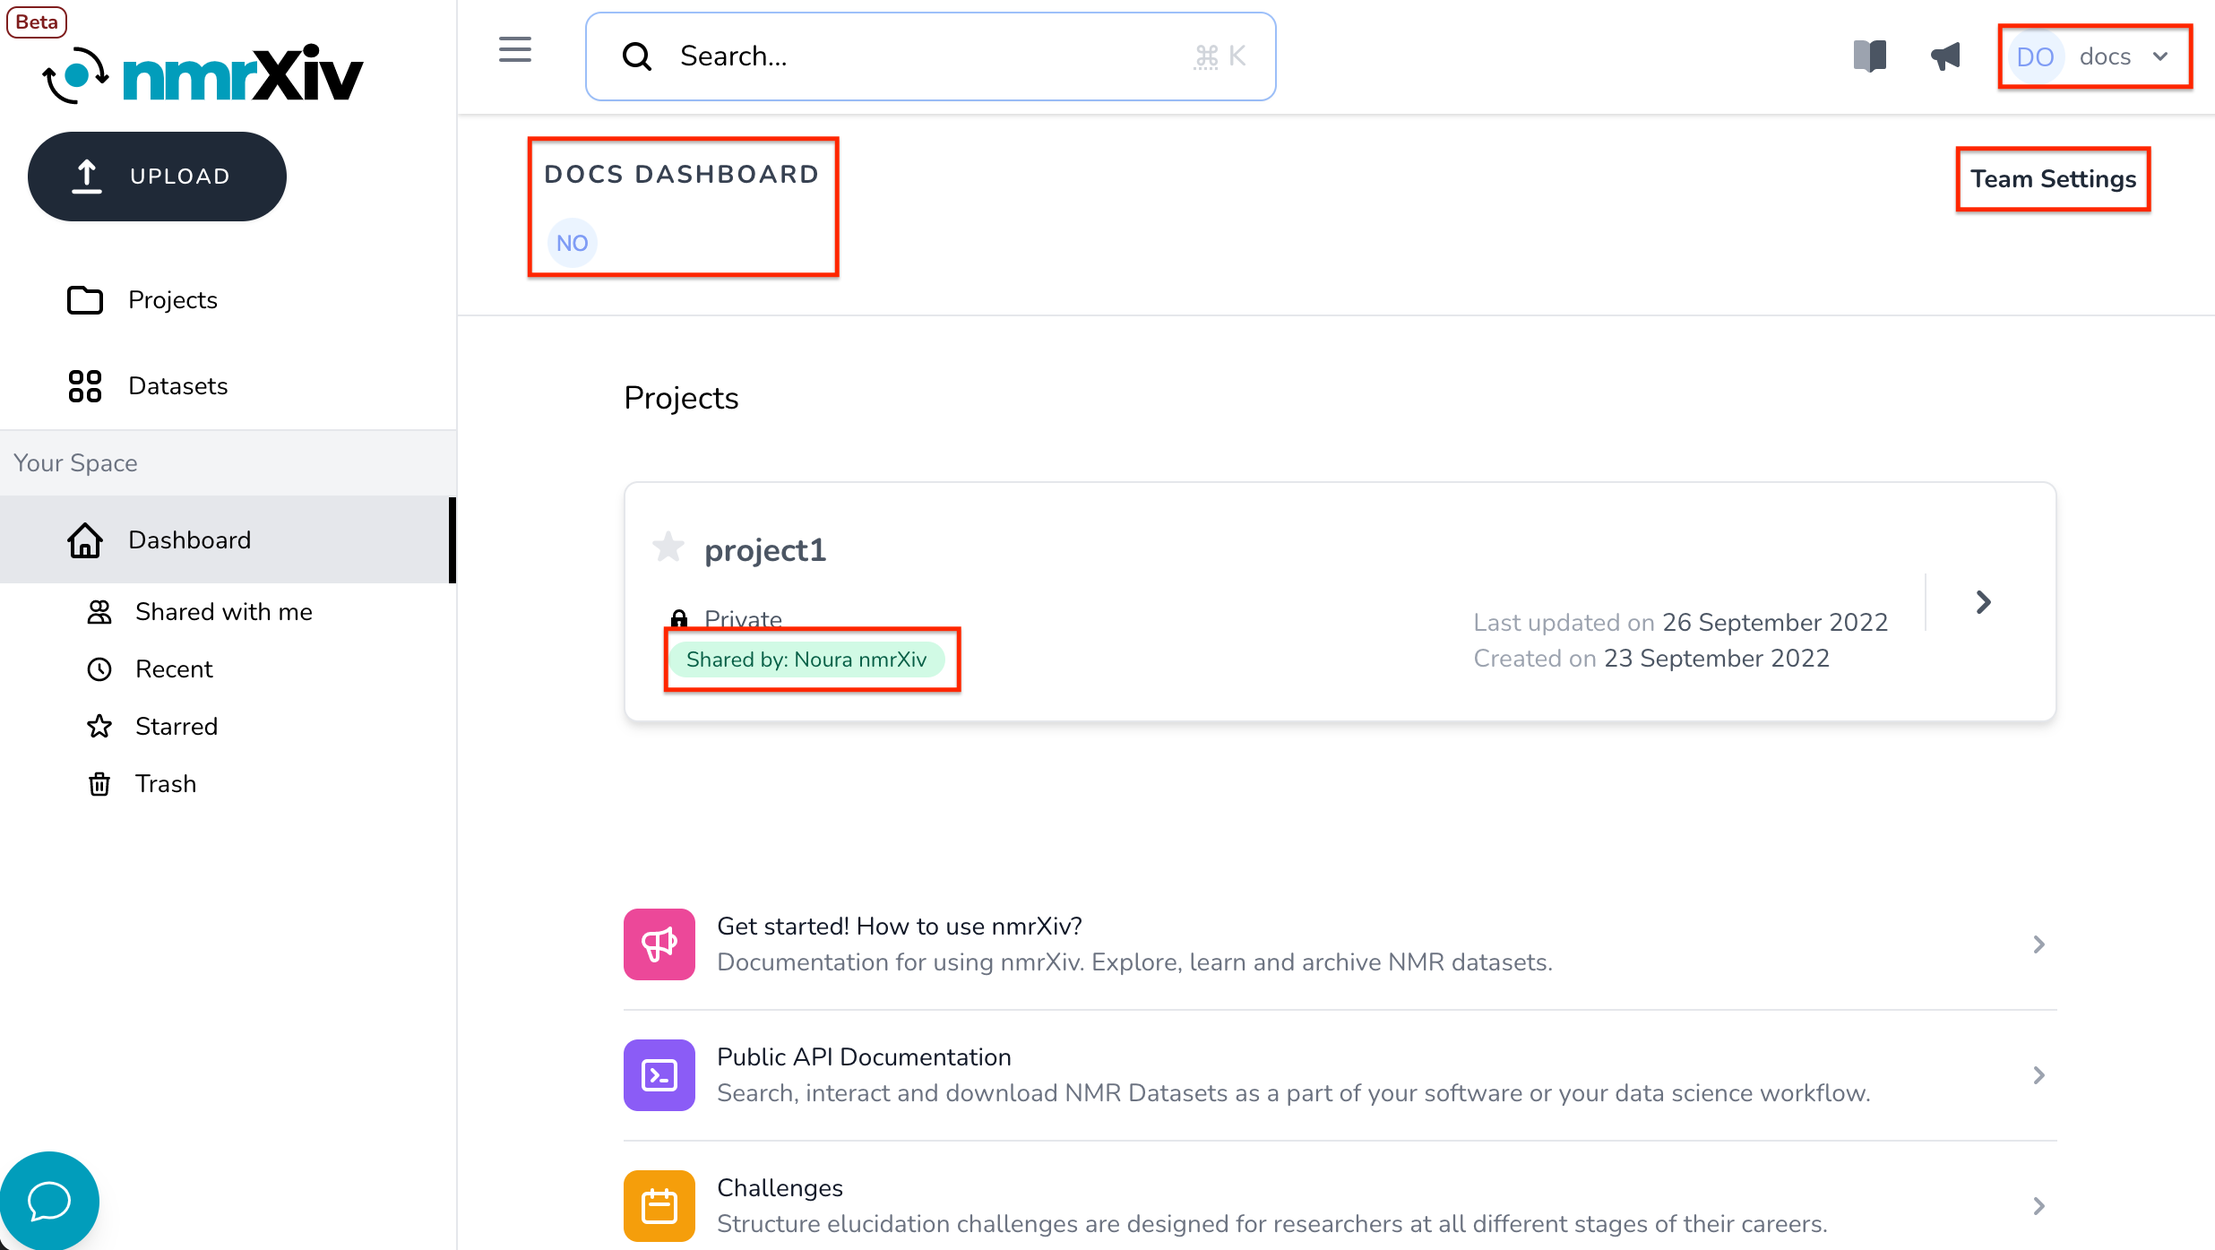
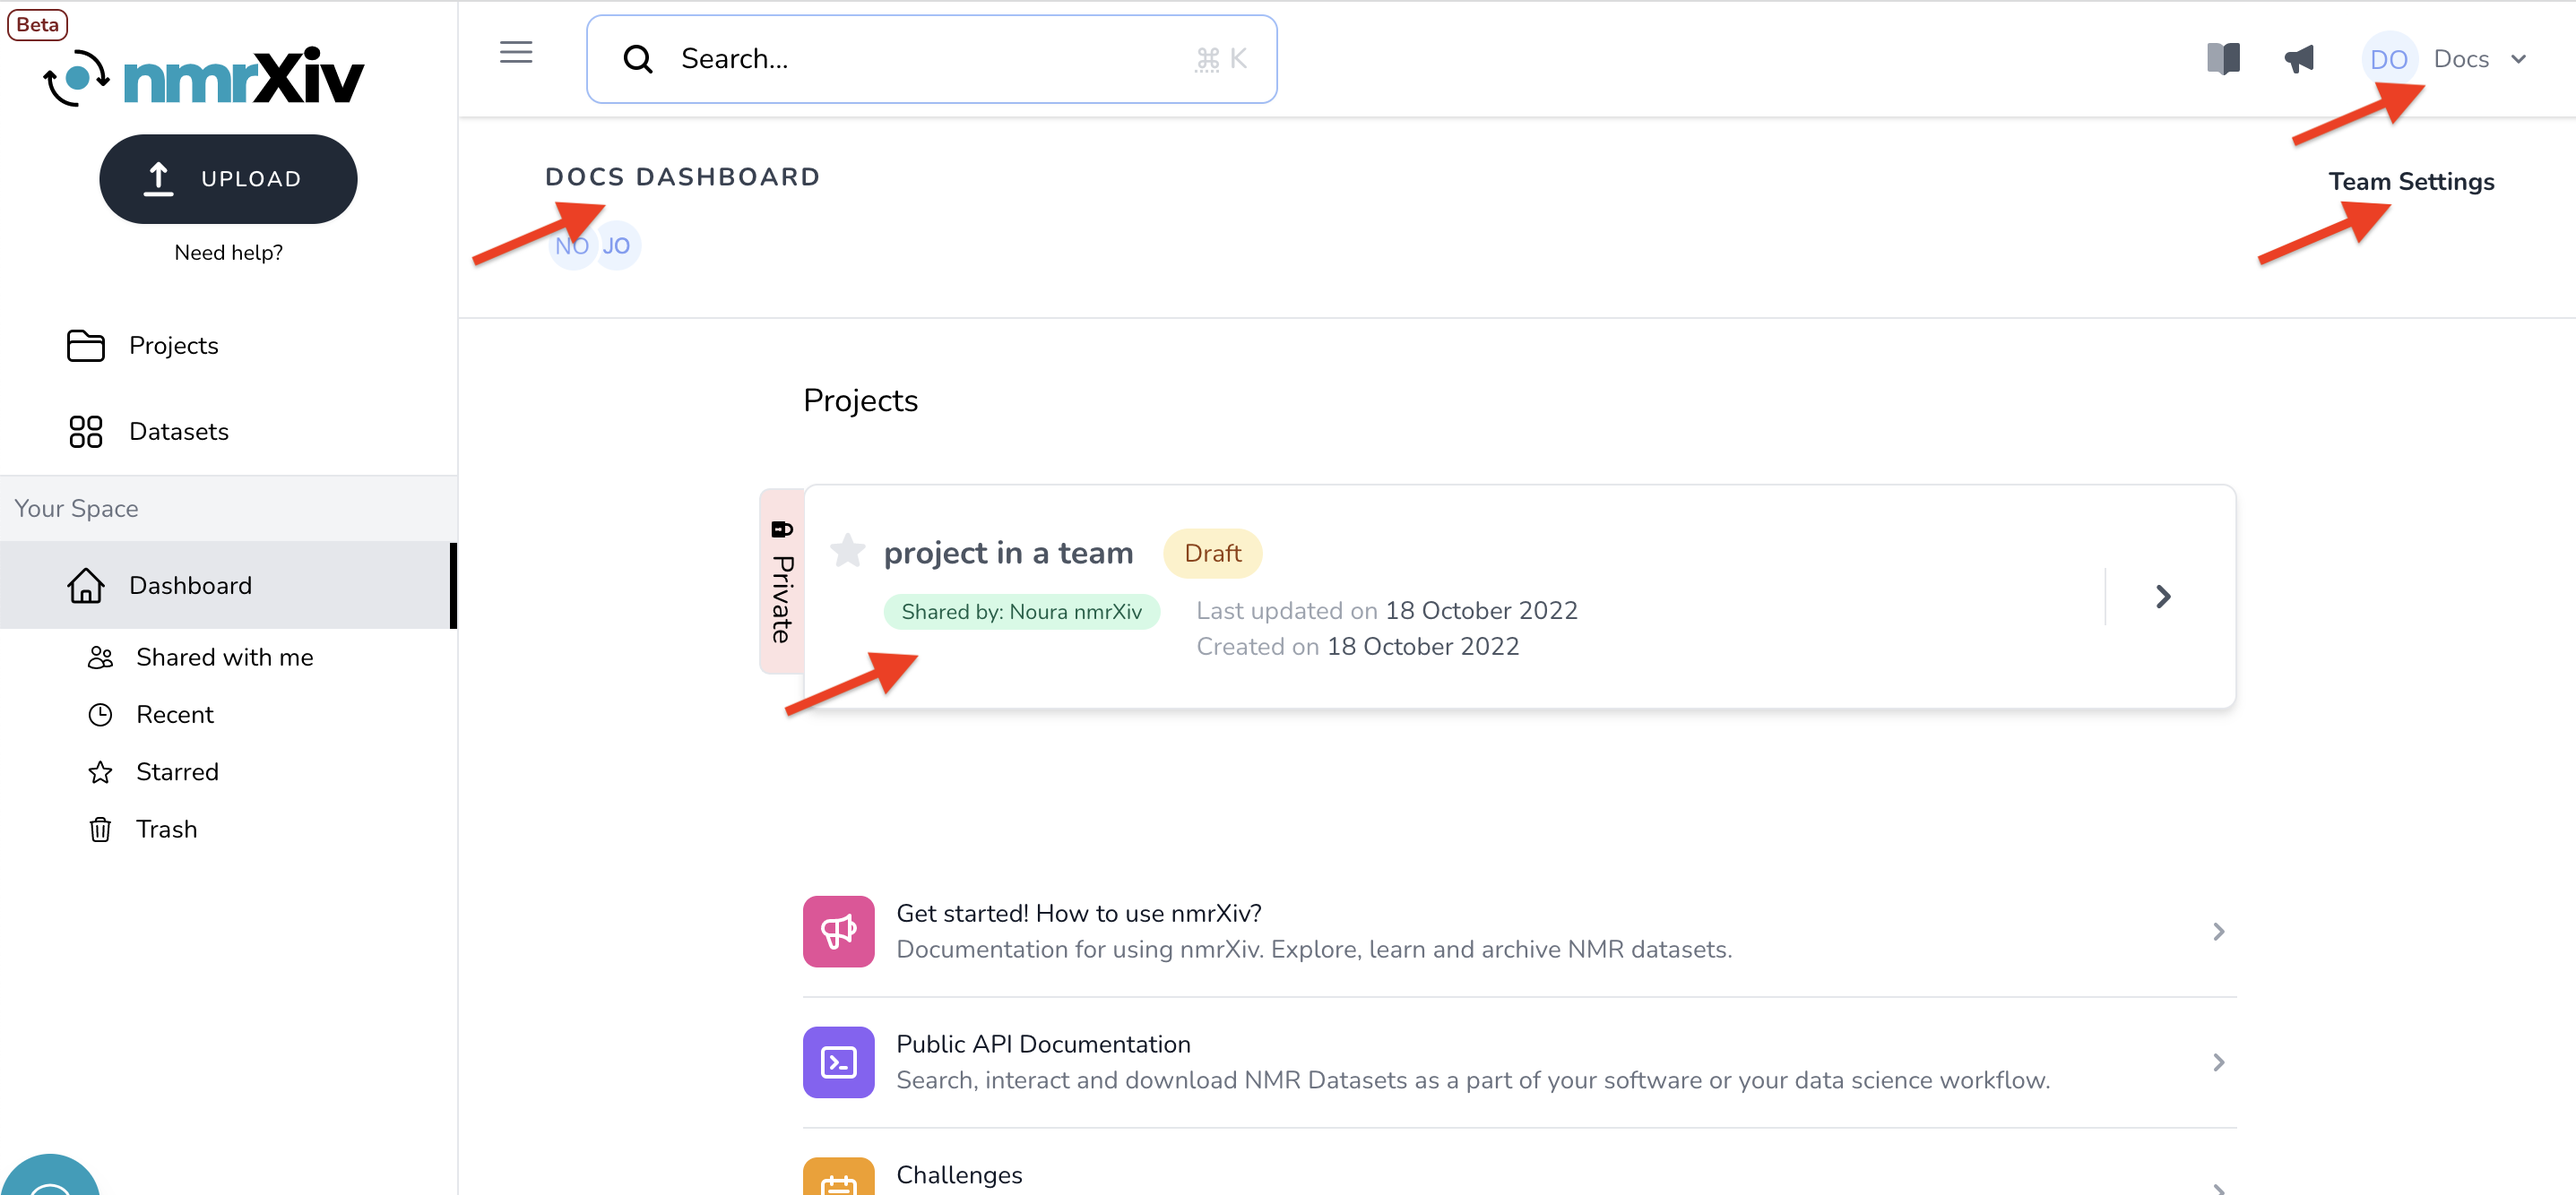
fix: update teams Fixes  #264

diff --git a/docs/submission-guides/data-model/team.md b/docs/submission-guides/data-model/team.md
@@ -2,10 +2,10 @@
 sidebar_position: 4
 title: Team
 ---
-**Teams** facilitate collaboration with others on projects by simplifying sharing options. Any user in nmrXiv can create teams or join them.
+**Teams** facilitate collaboration with others on projects by simplifying sharing options. Any user in **[nmrXiv](https://nmrxiv.org/)** can create or join teams.
 
 ## Team View
-Teams have their own **Dashboards** that look like the main user **Dashboard**, but still, there are few differences. 
+Teams have their own **Dashboards** that look like the main user **Dashboard**, but still, there are a few differences. 
 
 <div style={{textAlign: 'center'}}>
 <img src="/img/team/view.png" width="1000"/>
@@ -13,7 +13,11 @@ Teams have their own **Dashboards** that look like the main user **Dashboard**, 
 </div>
 <br></br>
 
-Starting from the top left, one can see the team **name** (DOCS DASHBOARD), which appears instead of (YOUR DASHBOARD) that is shown in the main user's dashboard, along with circles showing the first letters of the users' names who are part of the team. Going to the left, there are the `TEAM SETTINGS`, which will be explored more in [Edit section](#edit). Moving down, you can see a list of all the teams' projects with a quick view of the project's **name**, **privacy**, and dates of **creating and updating**. You can also see if the project is **starred**. At this point, there is a difference between the team-creator's view and the members' ones, as members will have a greenly-highlighted text mentioning by whom the project was shared. This person is always the team creator regardless of who created the project.
+Starting from the top left, one can see the team **name** (DOCS), which appears instead of (YOUR DASHBOARD) that is shown in the main user's dashboard, along with avatars of the users who are members of the team as circles with either their images or names' first letters. Going to the left, there are the `TEAM SETTINGS`, which will be explored more in [Edit section](#edit). Moving down, you can see a list of all the teams' projects with a quick view of the project's **name**, **privacy**, and dates of **creating and updating**. You can also see if the project is **starred**. 
+
+:::info
+There is a difference between the team creator's dashboard view and the members',  as members will have a greenly-highlighted text mentioning by whom the projects were shared, which is always the team creator, **regardless of who created the project**.
+:::
 
 ## Create
 You can create as many teams as you need by clicking on the user's name at the top right corner to open a menu and click `Create New Team`. 
@@ -24,7 +28,7 @@ You can create as many teams as you need by clicking on the user's name at the t
 </div>
 <br></br>
 
-It will lead to a new page that confirms your ownership of the team and requests a name for it. Then you click `CREATE`, and it is done. Then you get forwarded to the team dashboard. However, you still need to [Edit](#edit) the team to add members.
+It will lead to a new page that confirms your team ownership and requests a name for it. Then you click `CREATE`, and it is done. Then you get forwarded to the team dashboard. However, you still need to [Edit](#edit) the team to add members.
 
 <div style={{textAlign: 'center'}}>
 <img src="/img/team/create-page.png" width="1000"/>
@@ -34,11 +38,11 @@ It will lead to a new page that confirms your ownership of the team and requests
 
 ## Edit - Team Settings
 
-Once created, you can control the **Team** through **Team Settings**, which can be found at the top right of the page. The **Team** creator is the only one who can change the team settings.
+Once created, you can control the **Team** through **Team Settings**, which can be found at the top right of the page. The **Team** creator is the only one who can change the team settings., although the rest of the members can view the settings.
 
 ### Team Name
 This section includes details on **The Team's Name and Owner Information**.
-The **Team** creator is the only person who can change the **Team**'s name in the field  **Team Name**, and then they press `SAVE`. The email of the the **Team** creator is also shown here, but it can't be modified.
+The **Team** creator is the only person who can change the **Team**'s name in the field  **Team Name**, and then they press `SAVE`. The email of the **Team** creator is also shown here, but it can't be modified.
 
 <div style={{textAlign: 'center'}}>
 <img src="/img/team/name.png" width="1000"/>
@@ -47,14 +51,14 @@ The **Team** creator is the only person who can change the **Team**'s name in th
 <br></br>
 
 ### Add Team Member
-If you are the creator of the **Team**, you can invite people to join the **Team** and grant them specific roles. You have to enter the invitee email, and pick their role from the provided list, and press `ADD`. The possible roles are:
+If you are the creator of the **Team**, you can invite people to join the **Team** and grant them specific roles. You have to enter the invitee's email and pick their role from the provided list, and press `ADD`. The possible roles are:
 
-1. **Owner**: Provides full-control of the projects. They can read and/or update, including delete, the project, study, and dataset.
+1. **Owner**: Provides full control of the projects. They can read and/or update, including deleting, the project, study, and dataset.
 2. **Collaborator**: They can read and/or update the project, study, and dataset.
 3. **Reviewer**: They can only read the project, study, and dataset.
 
-:::danger Caution
-Please pay attention that one **Team** can have many owners with the same permissions to control **Projects** and **Studies**. However, only the **Team** creator has the rights to change the settings of the **Team**.
+:::info
+Please note that one **Team** can have many owners with the same permissions to control **Projects** and **Studies**. However, only the **Team** creator has the right to change the settings of the **Team**.
 
 **Team** creator is a **Team** owner by default.
 :::
@@ -83,9 +87,9 @@ The invitee will receive the invitation via email. The invitation has two button
 <br></br>
 
 ###  Team Members 
-This section shows a list of all the **Team** members (except the creator), and it appears only to the **Team** creator after other members have accepted their invitations. Each member is present with the following details:
-* Member's name: As provided to nmrXiv.
-* Member's role: The **Team** creator can manage the members roles here by clicking on the shown role and picking another one, and then either `SAVE` the changes or `CANCEL` them.
+This section shows a list of all the **Team** members (except the creator). Each member is present with the following details:
+* Member's name: As provided to **[nmrXiv](https://nmrxiv.org/)**.
+* Member's role: The **Team** creator can manage the members' roles here by clicking on the shown role and picking another one, and then either `SAVE` the changes or `CANCEL` them.
 * Remove: So that the **Team** creator can `Remove` members from the **Team**.
 
 <div style={{textAlign: 'center'}}>
@@ -102,10 +106,16 @@ This section appears to the rest of the team members too, but with a different v
 </div>
 <br></br>
 
-## Delete - Archive
-This option permanently deletes the **Team** with all its data and private resources. We recommend downloading the data before deleting it. However, if the team has some public projects, they get archived instead of deleted.
+## Delete and Archive
+This option permanently deletes the **Team** with all its data and private resources. We recommend downloading the data before deleting it. However, if the team has some public resources, they get archived instead of deleted.
 <div style={{textAlign: 'center'}}>
 <img src="/img/team/delete.png" width="1000"/>
 <figcaption>Delete Team section in the Team Settings</figcaption>
 </div>
 <br></br>
+
+## More on Ownerships
+Ownership can get complicated within a team. Here are some cases you might want to be aware of:
+- Team **creator** is also assigned a **creator** ownership of all the team resources, regardless of who actually uploaded the data.
+- Members who submit projects are **owners** of those projects.
+- If a member is **collaborator** or a **reviewer** in a team and they submit a project there, they become an **owner** of the project, even if they have a lower role in the team.

diff --git a/docs/submission-guides/data-model/dataset.md b/docs/submission-guides/data-model/dataset.md
@@ -23,13 +23,13 @@ The selected experiment will be viewed in the embedded NMRium. For more details 
 
 Next to the `Select Experiment` menu, there is a `Manage Datasets` button, which enables adding datasets or deleting them to and from a study through the [submission pipeline](/docs/submission-guides/submission/upload.md).
 
-Directly above the NMRium window, you can see a gray message on the left that informs the user about the current status of the spectra (being uploaded, saved, etc.). To the right side, there exist three buttons. `Reset` will reset all the edits done on the spectra, getting it back to its original status when uploaded. Resting is an edit that is saved along with other edits in the history, which can be viewed by clicking `Edit History`, which opens a side menu to show the editors, and the dates of edits.
+Directly above the NMRium window, you can see a gray message on the left that informs the user about the current status of the spectra (being uploaded, saved, etc.). On the right side, there exist three buttons. `Reset` will reset all the edits done on the spectra, getting it back to its original status when uploaded. Resting is an edit that is saved along with other edits in the history, which can be viewed by clicking `Edit History`, which opens a side menu to show the editors, and the dates of edits.
 
 <div style={{textAlign: 'center'}}>
 <img src="/img/dataset/history.png" width="1000"/>
 </div> 
 
-If any structure is added to `Chemical structures` field in NMRium, it appears directly below NMRium. Then there is metadata of the experiment:
+If any structure is added to `Chemical structures` field in NMRium, it appears directly below NMRium. Then there is the metadata of the experiment:
 - **Info** includes all the information extracted by [NMRium](https://www.nmrium.org/) about the NMR experiment.
 
 - **Meta** is the second table coming after **Info**. It includes the metadata from the instrument file.
@@ -39,7 +39,7 @@ There are two ways to create datasets. First is through the [submission pipeline
 
 
 ## Access
-You can access your created datasets and the ones shared with you by [entering their parent studies](/docs/submission-guides/data-model/study/#access) and going to `Datasets` or `Files` tabs. All the public datasets on **[nmrXiv](https://nmrxiv.org/)** are in the `Datasets` folder.
+You can access your created datasets and the ones shared with you by [entering their parent studies](/docs/submission-guides/data-model/study/#access) and going to the `Datasets` or `Files` tabs. All the public datasets on **[nmrXiv](https://nmrxiv.org/)** are in the `Datasets` folder.
 
 ## Edit
 To edit a dataset, you should have **editing** access to it, which is the case when you are its creator or when it is shared with you as an owner or a collaborator. The dataset should also still be private. You can edit the dataset through NMRium, and a history of changes is kept.
@@ -55,7 +55,7 @@ To publish a dataset, i.e., to make it public, you need to publish its parent pr
 <img src="/img/project/publish.png" width="1000"/>
 </div>
 
-Clicking on **Why can't I publish?** leads to a new page similar to the [step-3 of the submission pipeline](/docs/submission-guides/submission/upload#complete---step-3). Here you can find either red <span style={{color:"red"}}>x</span> or green <span style={{color:"green"}}>✓</span> to indicate the existence or absence of the metadata respectively. Whenever the red <span style={{color:"red"}}>x</span> exists, it is accompanied by an `Edit` button to facilitate providing the missing data. If `NMRium info` validation fails, this means NMRium didn't manage to extract the metadata from the files. Please click `Edit`, which will lead you to the corresponding dataset, and there click on `Preview`, which will update the preview and save it. You can make sure that the metadata is generated by checking the `Info` table below NMRium.
+Clicking on **Why can't I publish?** leads to a new page similar to the [step-3 of the submission pipeline](/docs/submission-guides/submission/upload#complete---step-3). Here you can find either red <span style={{color:"red"}}>x</span> or green <span style={{color:"green"}}>✓</span> to indicate the existence or absence of the metadata respectively. Whenever the red <span style={{color:"red"}}>x</span> exists, it is accompanied by an `Edit` button to facilitate providing the missing data. If the `NMRium info` validation fails, this means NMRium didn't manage to extract the metadata from the files. Please click `Edit`, which will lead you to the corresponding dataset, and there click on `Preview`, which will update the preview and save it. You can make sure that the metadata is generated by checking the `Info` table below NMRium.
 
 If `Assignments` validation fails, this means you have no structure at the dataset level. Click `Edit`, which will lead you to the corresponding dataset, and in NMRium `Chemical structures`, you have to ensure providing a structure there. The datasets where validation failed can be found from the red highlighting of their name. 
 
